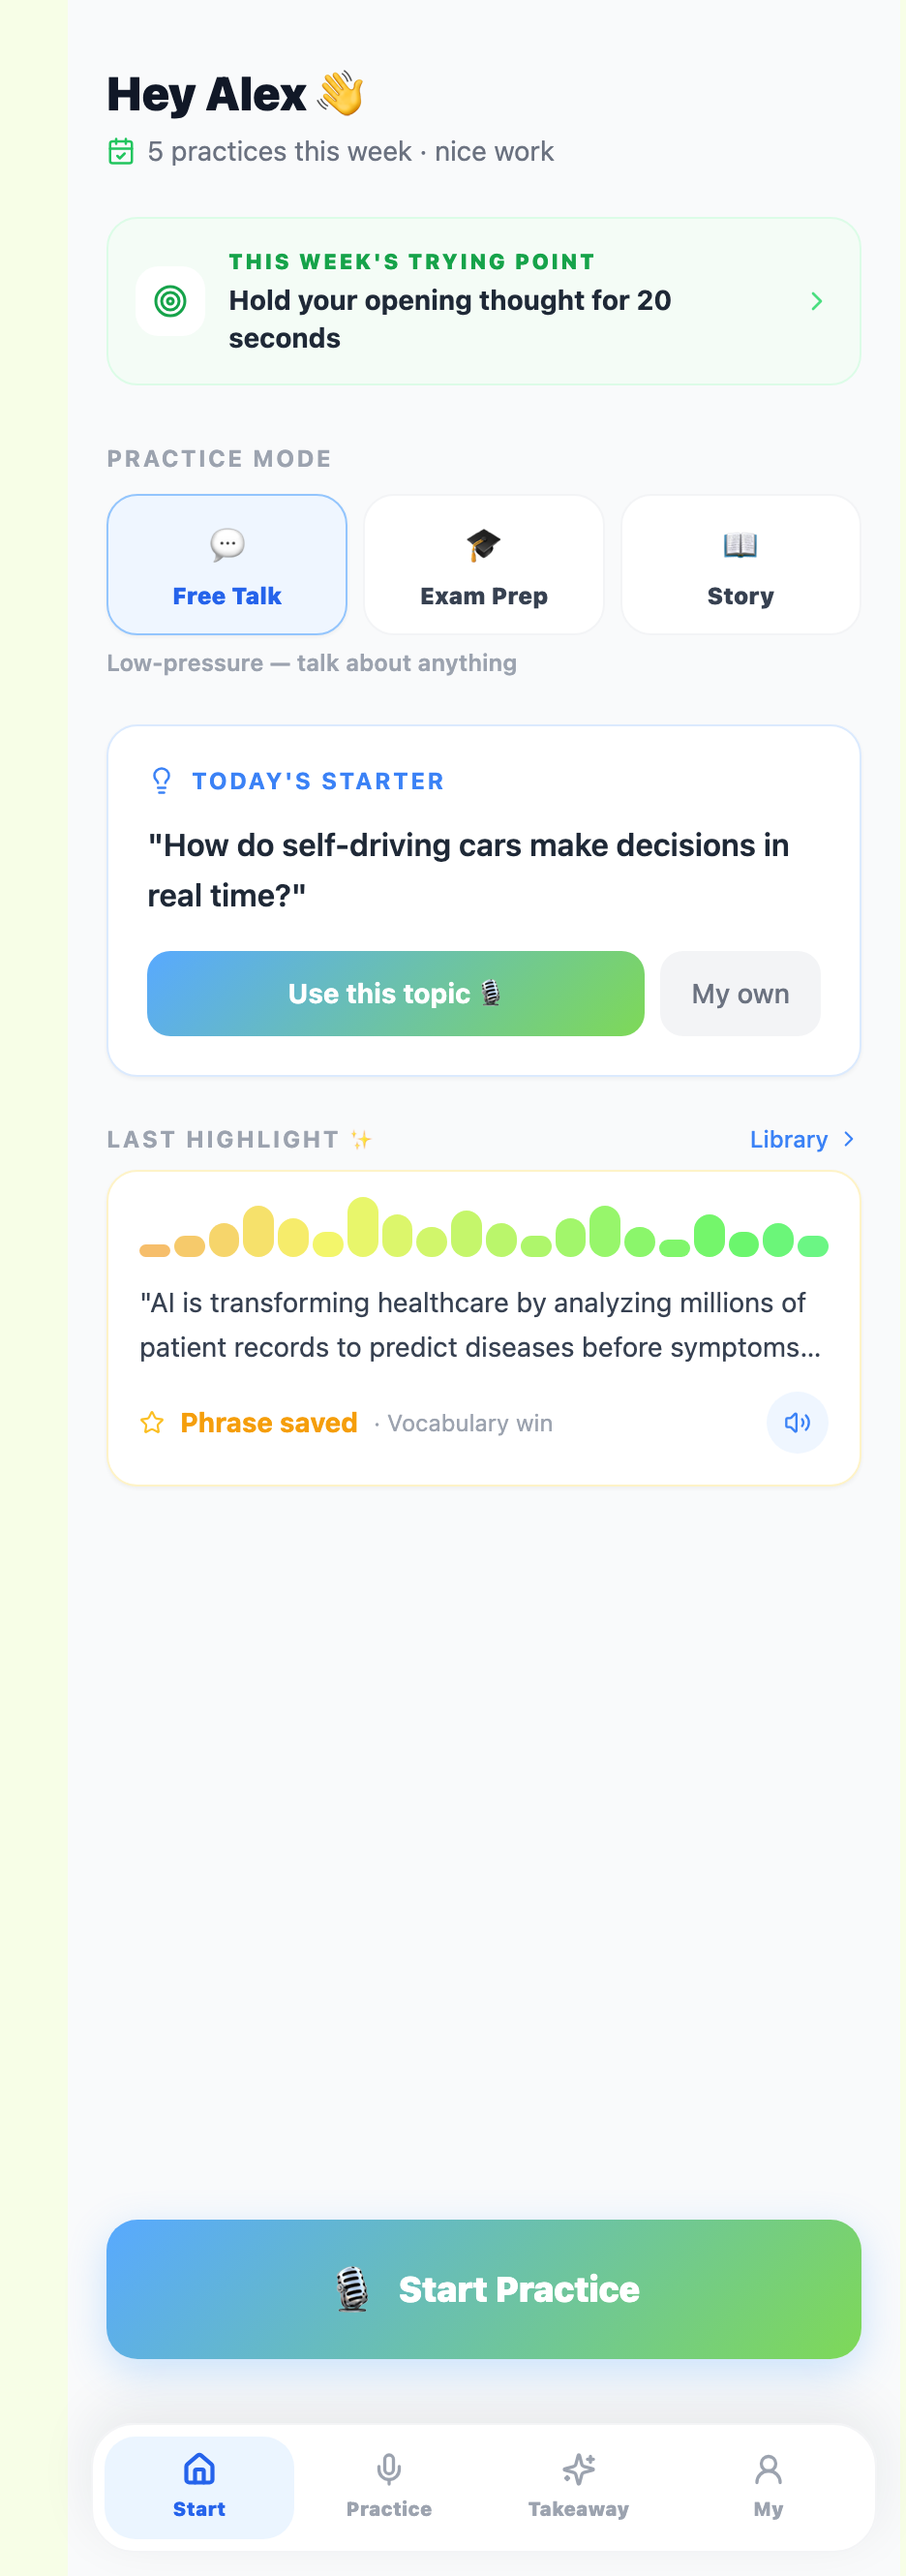
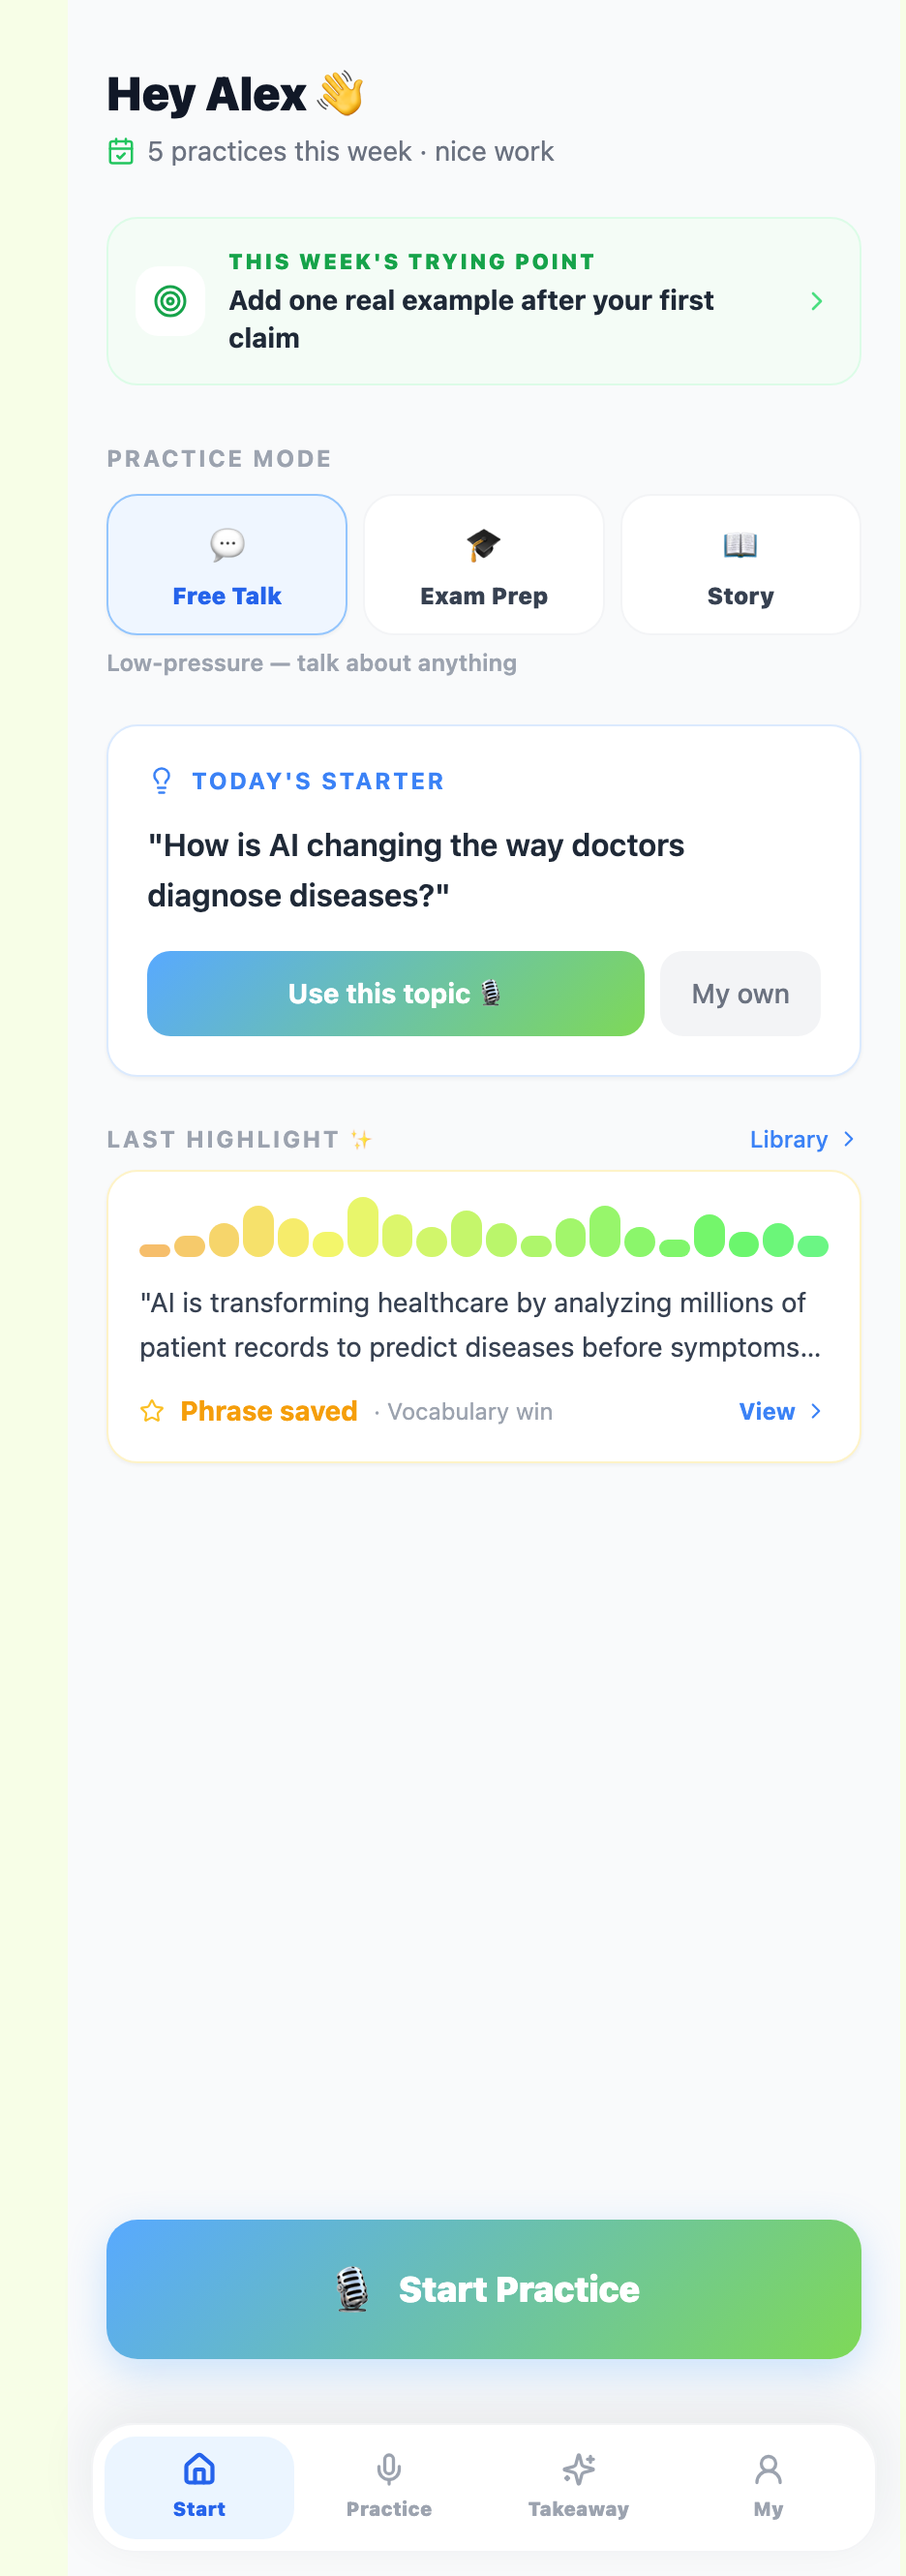
feat(buttons): wire dead buttons (Home highlight->library, real phrase bank, honest settings)
- Home Last Highlight card + "Library" now navigate to My (history); drop
  the fake audio-play button (no recordings stored) for a "View" affordance.
- MyPage Saved phrase bank: real count + tap-to-expand list aggregated from
  practice history (was hardcoded "12 phrases").
- MyPage Coach mode + Prompt focus: honest static info rows (no fake
  chevron/button); the header gear now scrolls to Settings.

Not done (user deferred): history item -> reopen Takeaway; audio playback
(needs recording storage).

Spec: Design/specs/2026-06-18-dead-buttons.md

diff --git a/src/pages/MyPage.tsx b/src/pages/MyPage.tsx
@@ -1,5 +1,5 @@
-import { useEffect, useState } from "react";
-import { CalendarDays, ChevronRight, ClipboardList, Settings, ShieldCheck, Sparkles, TrendingUp, UserRound } from "lucide-react";
+import { useEffect, useRef, useState } from "react";
+import { CalendarDays, ChevronDown, ChevronRight, ClipboardList, Settings, ShieldCheck, Sparkles, TrendingUp, UserRound } from "lucide-react";
 import AppTabBar from "@/components/AppTabBar";
 import { getSessions, type SessionRecord } from "@/lib/session-history";
 import { TRYING_POINTS } from "@/lib/trying-point";
@@ -29,7 +29,12 @@ function sessionTitle(s: SessionRecord): string {
 
 export default function MyPage() {
   const [sessions, setSessions] = useState<SessionRecord[]>([]);
+  const [phrasesOpen, setPhrasesOpen] = useState(false);
+  const settingsRef = useRef<HTMLDivElement>(null);
   useEffect(() => { setSessions(getSessions()); }, []);
+
+  // Real saved phrase bank — unique highlighted words across past runs.
+  const savedPhrases = Array.from(new Set(sessions.flatMap((s) => s.highlightWords).map((w) => w.trim()).filter(Boolean)));
 
   return (
     <div className="min-h-dvh bg-gray-50">
@@ -46,7 +51,11 @@ export default function MyPage() {
                 <ShieldCheck size={11} /> Practice feedback only
               </span>
             </div>
-            <button className="flex h-10 w-10 items-center justify-center rounded-full bg-gray-50 text-gray-400">
+            <button
+              onClick={() => settingsRef.current?.scrollIntoView({ behavior: "smooth", block: "start" })}
+              className="flex h-10 w-10 items-center justify-center rounded-full bg-gray-50 text-gray-400 active:scale-95"
+              aria-label="Settings"
+            >
               <Settings size={18} />
             </button>
           </div>
@@ -123,21 +132,46 @@ export default function MyPage() {
           </div>
         </section>
 
-        <section className="rounded-[1.25rem] border border-gray-100 bg-white p-4 shadow-sm">
+        <section ref={settingsRef} className="rounded-[1.25rem] border border-gray-100 bg-white p-4 shadow-sm">
           <p className="mb-3 text-xs font-black uppercase tracking-widest text-gray-400">Settings</p>
           <div className="space-y-2">
-            {[
-              { icon: ShieldCheck, label: "Coach mode", value: "Practice feedback only" },
-              { icon: Sparkles, label: "Saved phrase bank", value: "12 phrases" },
-              { icon: Settings, label: "Prompt settings", value: "Science presentation" },
-            ].map(({ icon: Icon, label, value }) => (
-              <button key={label} className="flex w-full items-center gap-3 rounded-2xl bg-gray-50 px-3 py-3 text-left">
-                <Icon size={17} className="text-blue-500" />
-                <span className="flex-1 text-sm font-bold text-gray-800">{label}</span>
-                <span className="text-xs font-semibold text-gray-400">{value}</span>
-                <ChevronRight size={15} className="text-gray-300" />
-              </button>
-            ))}
+            {/* Coach mode — a fixed trust boundary, shown as info (not a toggle) */}
+            <div className="flex items-center gap-3 rounded-2xl bg-gray-50 px-3 py-3">
+              <ShieldCheck size={17} className="text-green-500" />
+              <span className="flex-1 text-sm font-bold text-gray-800">Coach mode</span>
+              <span className="text-xs font-semibold text-green-600">Practice feedback only</span>
+            </div>
+
+            {/* Saved phrase bank — real, aggregated from your practice history */}
+            <button
+              onClick={() => setPhrasesOpen((o) => !o)}
+              className="flex w-full items-center gap-3 rounded-2xl bg-gray-50 px-3 py-3 text-left active:scale-[0.99]"
+            >
+              <Sparkles size={17} className="text-blue-500" />
+              <span className="flex-1 text-sm font-bold text-gray-800">Saved phrase bank</span>
+              <span className="text-xs font-semibold text-gray-400">{savedPhrases.length} {savedPhrases.length === 1 ? "phrase" : "phrases"}</span>
+              <ChevronDown size={15} className="text-gray-300 transition-transform" style={{ transform: phrasesOpen ? "rotate(180deg)" : "none" }} />
+            </button>
+            {phrasesOpen && (
+              <div className="rounded-2xl bg-blue-50/50 px-3 py-3">
+                {savedPhrases.length === 0 ? (
+                  <p className="text-xs font-semibold text-gray-400">No saved phrases yet — finish a practice and your highlighted words show up here.</p>
+                ) : (
+                  <div className="flex flex-wrap gap-1.5">
+                    {savedPhrases.map((p) => (
+                      <span key={p} className="rounded-full border border-blue-100 bg-white px-2 py-1 text-xs font-bold text-blue-600">{p}</span>
+                    ))}
+                  </div>
+                )}
+              </div>
+            )}
+
+            {/* Prompt focus — info row */}
+            <div className="flex items-center gap-3 rounded-2xl bg-gray-50 px-3 py-3">
+              <Settings size={17} className="text-blue-500" />
+              <span className="flex-1 text-sm font-bold text-gray-800">Prompt focus</span>
+              <span className="text-xs font-semibold text-gray-400">Science presentation</span>
+            </div>
           </div>
         </section>
       </div>

diff --git a/src/pages/Home.tsx b/src/pages/Home.tsx
@@ -1,6 +1,6 @@
 import { useRef, useState } from "react";
 import { useNavigate } from "react-router-dom";
-import { CalendarCheck, Star, Volume2, ChevronRight, Lightbulb, Target } from "lucide-react";
+import { CalendarCheck, Star, ChevronRight, Lightbulb, Target } from "lucide-react";
 import { PRACTICE_MODES, getPracticeMode, setPracticeMode, type PracticeModeId } from "@/lib/practice-mode";
 import { currentTryingPoint } from "@/lib/trying-point";
 import AppTabBar from "@/components/AppTabBar";
@@ -125,16 +125,19 @@ export default function Home() {
           </div>
         </div>
 
-        {/* Last highlight */}
+        {/* Last highlight — opens the history/library on My */}
         <div>
           <div className="flex items-center justify-between mb-2">
             <span className="text-xs font-bold uppercase tracking-widest text-gray-400">Last Highlight ✨</span>
-            <button className="flex items-center gap-1 text-xs font-medium text-blue-500">
+            <button onClick={() => navigate("/my")} className="flex items-center gap-1 text-xs font-medium text-blue-500">
               Library <ChevronRight size={13} />
             </button>
           </div>
 
-          <div className="bg-white rounded-2xl p-4 shadow-sm border border-amber-100">
+          <button
+            onClick={() => navigate("/my")}
+            className="w-full text-left bg-white rounded-2xl p-4 shadow-sm border border-amber-100 transition active:scale-95"
+          >
             <div className="flex items-end gap-0.5 h-7 mb-3">
               {MOCK_LAST_HIGHLIGHT.wave.map((h, i) => (
                 <div key={i} className="flex-1 rounded-full"
@@ -150,11 +153,9 @@ export default function Home() {
                 <span className="text-sm font-bold text-amber-500">Phrase saved</span>
                 <span className="text-xs text-gray-400">· {MOCK_LAST_HIGHLIGHT.dimension} win</span>
               </div>
-              <button className="w-8 h-8 rounded-full flex items-center justify-center bg-blue-50">
-                <Volume2 size={14} className="text-blue-500" />
-              </button>
+              <span className="flex items-center gap-1 text-xs font-bold text-blue-500">View <ChevronRight size={13} /></span>
             </div>
-          </div>
+          </button>
         </div>
 
         <div className="flex-1" />

diff --git a/Design/specs/2026-06-18-dead-buttons.md b/Design/specs/2026-06-18-dead-buttons.md
@@ -1,0 +1,19 @@
+# Spec — 干掉死按钮（Home Last Highlight + My Settings）
+
+> 2026-06-18 · 文件：`Home.tsx`、`MyPage.tsx` · 状态：实现中 · 纯前端
+> 用户选了 3 项；My 历史条目"点开重看"本次不做（用户未选）。
+
+## 修改建议
+几处看起来可点却无反应的死按钮，要么接上、要么改成诚实的静态信息行。
+
+## 解决思路 / 技术方案
+1. **Home · Last Highlight**：整张卡 + "Library" → `navigate("/my")`（练习历史就在 My）。**去掉假播放键**（Volume2）——没有录音存储，不放假播放；右侧换成 ChevronRight 表示"可点开"。
+2. **My · Saved phrase bank**：不再写死 "12 phrases"。从 `getSessions()` 聚合所有 `highlightWords` 去重 → 显示真实数量；点击**就地展开**列出短语 chips（空则提示）。
+3. **My · Coach mode / Prompt settings**：固定项，改成**诚实静态信息行**（去掉假 chevron/button 外观）。顶部 ⚙ 齿轮 → 点击**滚动到 Settings 区**（functional，不再死）。
+
+## 不做（用户未选）
+- My 练习历史条目点开重看 Takeaway（数据具备，留作下次）。
+- 音频播放（无录音存储，需独立录音功能）。
+
+## 验证测试
+tsc + build；手动：首页点 Last Highlight/Library → 跳 My；My 短语库数量真实、点开列出；Coach mode/Prompt settings 不再像可点按钮；齿轮点击滚到 Settings。
